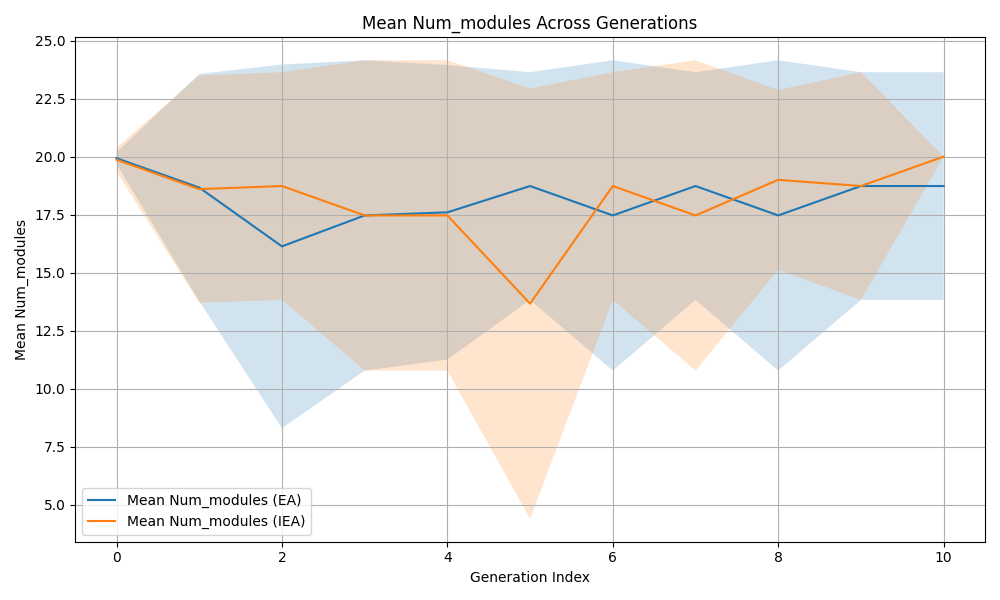
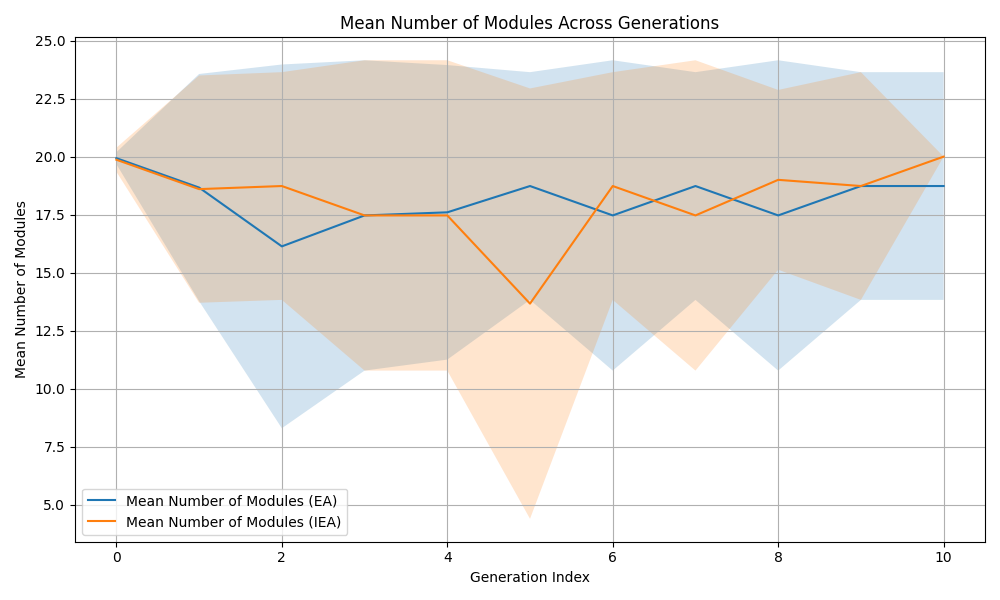
Plots galore!

diff --git a/vr/db/compute_morph_descriptors.py b/vr/db/compute_morph_descriptors.py
@@ -35,19 +35,24 @@ def process_database(db_path, label, measure_name, start_id = None, end_id = Non
     
     with Session(dbengine) as session:
         generations = None
-        if start_id and end_id:
+        if db_path == "databases/iea_database.sqlite":
             generations = session.query(Generation).filter(
                 Generation.id >= start_id,
                 Generation.id <= end_id
             ).order_by(Generation.id.asc()).all()
-        elif start_id:
-            generations = session.query(Generation).filter(
-                Generation.id >= start_id
-            ).order_by(Generation.id.asc()).all()
-        elif end_id:
-            generations = session.query(Generation).filter(
-                Generation.id <= end_id
-            ).order_by(Generation.id.asc()).all()
+        #if start_id and end_id:
+        #    generations = session.query(Generation).filter(
+        #        Generation.id >= start_id,
+        #        Generation.id <= end_id
+        #    ).order_by(Generation.id.asc()).all()
+        #elif start_id:
+        #    generations = session.query(Generation).filter(
+        #        Generation.id >= start_id
+        #    ).order_by(Generation.id.asc()).all()
+        #elif end_id:
+        #    generations = session.query(Generation).filter(
+        #        Generation.id <= end_id
+        #    ).order_by(Generation.id.asc()).all()
         else:
             generations = session.query(Generation).order_by(Generation.id.asc()).all()
         for generation in generations:
@@ -69,7 +74,7 @@ def process_database(db_path, label, measure_name, start_id = None, end_id = Non
     
     return agg_per_generation
 
-def plot_measure_across_databases(db_paths, labels, measure_names, start_id, end_id):
+def plot_measure_across_databases(db_paths, labels, measure_names, start_id, end_id, folder):
     """
     Plot the specified morphological measure across generations for multiple databases.
     
@@ -89,13 +94,13 @@ def plot_measure_across_databases(db_paths, labels, measure_names, start_id, end
 
         # Plotting
         plt.figure(figsize=(10, 6))
-
+        title = measure_name.replace('num', 'number_of').replace('_', ' ').replace('ratio', '').title().replace('Of', 'of')
         for label, group_data in combined_data.groupby('label'):
             # Plot mean measure with shading for standard deviation for each database
             plt.plot(
                 group_data['generation_index'],
                 group_data['mean_measure'],
-                label=f'Mean {measure_name.capitalize()} ({label})'
+                label=f'Mean {title} ({label})'
             )
             plt.fill_between(
                 group_data['generation_index'],
@@ -106,12 +111,12 @@ def plot_measure_across_databases(db_paths, labels, measure_names, start_id, end
 
         # Configure plot aesthetics
         plt.xlabel("Generation Index")
-        plt.ylabel(f"Mean {measure_name.capitalize()}")
-        plt.title(f"Mean {measure_name.capitalize()} Across Generations")
+        plt.ylabel(f"Mean {title}")
+        plt.title(f"Mean {title} Across Generations")
         plt.legend()
         plt.grid(True)
         plt.tight_layout()
-        plot_name = f"figs2/less_than_10_modules/combined_{measure_name}_plot.png"
+        plot_name = f"{folder}/combined_{measure_name}_plot.png"
         # Save the plot
         plt.savefig(plot_name)
         logging.info(f"Plot for {measure_name} saved in {plot_name}.")
@@ -119,12 +124,25 @@ def plot_measure_across_databases(db_paths, labels, measure_names, start_id, end
 
 def main():
     setup_logging(file_name="log.txt")
-    db_paths = ["databases/iea_database.sqlite", "databases/ea12_database.sqlite"]
+    db_paths = ["databases/iea_database.sqlite", "databases/ea3_database.sqlite"]
     labels = ["IEA", "EA"]
-    measure_names = ["num_modules", "core_only"]
-    start_id = 100
-    end_id = 132
-    plot_measure_across_databases(db_paths, labels, measure_names, start_id, end_id)
+    # I'm using num_modules instead of size bc they look the same except size is
+    # a ratio from 0 to 1 whereas num_modules is 1-20
+    measure_names = ["active_hinges_ratio", "bricks_ratio"]
+    #start_id = 34
+    #end_id = 66
+    folders = ["maximize_size", "passive_hinge_combo", "maximize_passive_bricks", "less_than_10_modules"]
+    start_id = 1
+    end_id = 33
+    i = 0
+    while True:
+        folder = f"figs/figs_ea3/{folders[i]}"
+        plot_measure_across_databases(db_paths, labels, measure_names, start_id, end_id, folder)
+        start_id += 33
+        end_id += 33
+        i += 1
+        if(start_id > 100):
+            break
 
 if __name__ == "__main__":
     main()

diff --git a/ci_group/revolve2/ci_group/morphological_measures.py b/ci_group/revolve2/ci_group/morphological_measures.py
@@ -620,7 +620,7 @@ class MorphologicalMeasures(Generic[TModule]):
         return max(self.xy_symmetry, self.xz_symmetry, self.yz_symmetry)
 
     @property
-    def mix_active_hinge_brick(self) -> int:
+    def mixed(self) -> int:
         """
         Determine if the robot has a mix of bricks and active hinges.
 
@@ -641,4 +641,16 @@ class MorphologicalMeasures(Generic[TModule]):
         has_no_bricks = len(self.bricks) == 0
         has_no_active_hinges = len(self.active_hinges) == 0
         return int(has_no_bricks and has_no_active_hinges)
+    
+    @property
+    def size(self) -> float:
+        return self.num_modules/20
+    
+    @property
+    def active_hinges_ratio(self) -> float:
+        return self.num_active_hinges/20
+    
+    @property
+    def bricks_ratio(self) -> float:
+        return self.num_bricks/20
     
